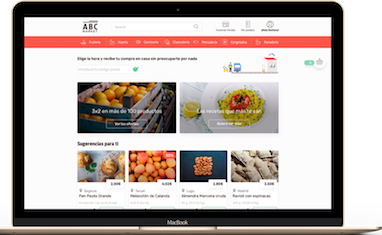
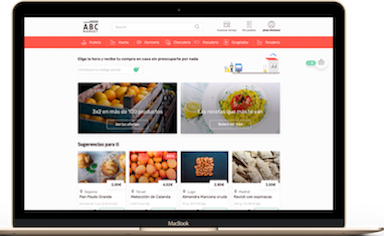
nuevos colores

diff --git a/index.html b/index.html
@@ -9,17 +9,15 @@
   <link rel="stylesheet" href="stylesheets/grid.min.css">
   <link rel="stylesheet" href="stylesheets/gutter.css">
   <link rel="stylesheet" href="stylesheets/styles.css">
-  <title>Portfolio de Soledad - UX/UI Design</title>
+  <title>soledadabad-UX/UI Designer</title>
 </head>
 
 
 <body>
   <header class="container-fluid">
+    <a href="index.html" class="logo"><img src="images/logo.png" alt="soledadabad" class="soledadabad"> </a>
     <div class="row justify-content-end">
       <ul class="menu">
-        <a href="#presentation">
-          <li>Bienvenida</li>
-        </a>
         <a href="#proyectos">
           <li>Proyectos</li>
         </a>
@@ -39,13 +37,8 @@
         <div class="col presentation">
           <h1>¡Hola!</h1>
           <h2>Mi nombre es Soledad Abad Lavín.</h2>
-          <h2>He cambiado la literatura por lo digital,</h2>
-          <h2>ahora soy:</h2>
+          <h2>He cambiado la literatura por lo digital, ahora soy:</h2>
           <h1>Diseñadora UX/UI y UX Writer</h1>
-          <a href="#proyectos" class="enlace-proyectos">
-            <p>Echa un vistazo a mis trabajos</p>
-            <img src="images/flecha-rosa1.svg" alt="baja">
-          </a>
         </div>
       </div>
     </div>
@@ -53,17 +46,18 @@
       <div class="container">
         <div class="row justify-content-between">
           <div class="col-lg-5">
-            <img src="images/proyector.png" alt="" class="proyector">
+            <img src="images/ticmorning.png" alt="" class="proyector">
           </div>
           <div class="col-lg-6 text">
             <h2>TicMorning</h2>
             <h3>Revolucionando los métodos de enseñanza tradicionales</h3>
             <p>El aula de Infantil es el espacio idóneo para acercarse a las nuevas tecnologías. Con este proyecto hemos trasladado la asamblea, es decir, su reunión matutina, del corcho a la pizarra digital. Nuevo contexto, mismo procedimiento. Mostrando las utilidades de los medios digitales.</p>
-            <a href="https://medium.com/@sole.irix/ticmorning-30a1c2bdcc3">
+            <a href="https://medium.com/@sole.irix/ticmorning-30a1c2bdcc3" target="_blank">
               <button>Leer más</button>
             </a>
           </div>
         </div>
+        <hr>
         <div class="row justify-content-between">
           <div class="col-lg-6 text">
             <h2>DocIn</h2>
@@ -71,16 +65,17 @@
             <p>Tras los últimos titulares publicados en torno a los riesgos de sufrir enfermedades mentales por parte de los
               doctorandos busqué facilitarles un modo de encontrar personas con investigaciones afines para establecer nuevos
               vínculos. Una aplicación en la que relacionarse, encontrar planes y apoyarse en el proceso de investigación.</p>
-            <a href="https://medium.com/@sole.irix/poner-en-contacto-a-doctorandos-18e4a76139fa" class="enlace-proyectos"><button>Leer
+            <a href="https://medium.com/@sole.irix/poner-en-contacto-a-doctorandos-18e4a76139fa" class="enlace-proyectos" target="_blank"><button>Leer
                 más sobre UX</button></a>
-            <a href="https://medium.com/@sole.irix/docin-c1eb8616f254" class="enlace-proyectos">
+            <a href="https://medium.com/@sole.irix/docin-c1eb8616f254" class="enlace-proyectos" target="_blank">
               <button>Leer más sobre UI</button>
             </a>
           </div>
           <div class="col-lg-5">
-            <img src="images/docin.png" alt="" class="docin">
+            <img src="images/doc-in.png" alt="" class="docin">
           </div>
         </div>
+        <hr>
         <div class="row justify-content-between">
           <div class="col-lg-5">
             <img src="images/abc.png" alt="" class="abc">
@@ -92,7 +87,7 @@
               los productos frescos. Los usuarios mantienen una actitud desconfiada sobre la calidad y el transporte de los
               mismos, por lo que, desde la nueva plataforma de venta de ABC Market proponemos mejorar la cantidad y la calidad
               de la información referente a los productos en venta, así como del transporte de la compra. </p>
-            <a href="https://medium.com/@sole.irix/proyecto-grupal-abc-company-912cc2bf0373"> <button>Leer más sobre UX</button> </a>
+            <a href="https://medium.com/@sole.irix/proyecto-grupal-abc-company-912cc2bf0373" target="_blank"> <button>Leer más sobre UX</button> </a>
             <a href="https://medium.com/@sole.irix/abc-company-5a7241eaeb62">
               <button>Leer más sobre UI</button>
             </a>
@@ -120,20 +115,18 @@
     <div class="container-fluid datos" id="datos">
       <div class="container">
         <div class="row justify-content-around">
-          <div class="col-lg-7">
-            <p>¿Tienes alguna duda? ¿Quieres que trabajemos en un proyecto en común? ¿Quieres hacerme alguna sugerencia? No dudes en escribirme ¡estaré encantada de leerte!</p>
-            <p>Puedes hacerlo a: sole.irix@gmail.com</p>
+          <div class="col-lg-12">
+            <p>¿Tienes alguna duda? ¿Quieres que trabajemos en un proyecto en común? ¿Quieres hacerme alguna sugerencia? No dudes en escribirme a sole.irix@gmail.com ¡estaré encantada de leerte!</p>
           </div>
-          <div class="col-lg-3">
-            <p>Sígueme en:</p>
-            <a href="https://twitter.com/sole_abad">
-              <img src="images/twitter.svg" alt="Twitter">
+          <div class="col-lg-12">
+            <a href="https://twitter.com/sole_abad" target="_blank">
+              <img src="images/twitter.svg" alt="Twitter" class="twitter">
             </a>
-            <a href="https://medium.com/@sole.irix">
-              <img src="images/medium.svg" alt="Medium">
+          <a href="https://medium.com/@sole.irix" target="_blank">
+              <img src="images/medium.svg" alt="Medium" class="medium">
             </a>
-            <a href="https://www.linkedin.com/in/soledadabadlavin/">
-              <img src="images/in.svg" alt="Linkedin">
+          <a href="https://www.linkedin.com/in/soledadabadlavin/" target="_blank">
+              <img src="images/in.svg" alt="Linkedin" class="linkedin">
             </a>
           </div>
         </div>

diff --git a/stylesheets/styles.css b/stylesheets/styles.css
@@ -2,25 +2,32 @@ body {
   margin: 0;
   font-family: 'Work Sans', sans-serif;
   color: #1A1919;
-  background-color: #FEFAFC;
+  background-color: #ffffff;
 }
 
-.container-fluid {
-  width: 100%
-}
 
 .container.proyectos {
-  width: 65vw;
+  width: 70vw;
+}
+
+.presentation {
+    background-image: url("../images/home.png"); 
+    height: 90vh;
+    min-height: 30em;
+    max-height: 90em;
+    padding-left: 56px;
 }
 
 header {
-  text-align: right;
   padding-top: 22px;
   padding-bottom: 22px;
-  background: #FEFAFC;
-  width: 100%;
+  background: #ffffff;
   position: fixed;
   z-index: 100;
+}
+
+.soledadabad {
+  float: left;
 }
 
 ul {
@@ -32,6 +39,7 @@ ul {
   margin-right: 34px;
   list-style-type: none;
   font-size: 18px;
+  text-align: right;
 }
 
 li:hover {
@@ -40,15 +48,10 @@ li:hover {
 
 .menu a {
   font-size: 18px;
-  color: #F23B90;
+  color: #BE0D0D;
   text-decoration: none;
 }
 
-
-.presentation {
-  text-align: center;
-  height: 100vh;
-}
 
 h1 {
   font-size: 48px;
@@ -70,35 +73,17 @@ a:hover {
   text-decoration: none;
 }
 
-.enlace-proyectos p {
-  margin-top: 96px; 
-  margin-bottom: 33px;
-  text-decoration: none;
-  color: #1A1919;
-}
 
-.enlace-proyectos:hover p{
-  color: #F23B90;
-}
-
-.enlace-proyectos img {
-  margin-bottom: 112px;
-}
 
 .proyectos {
-  padding-top: 112px;
-  padding-bottom: 112px;
-  background-color: #FDA8D0;
+  background-color: #BF4141;
+  color: #ffffff;
 }
 
 h3 {
   font-size: 24px;
-  margin-top: 36px;
 }
 
-.row.justify-content-between+.row.justify-content-between {
-  margin-top: 208px;
-}
 
 .col-lg-6 {
   padding-top: 16px;
@@ -109,16 +94,22 @@ h3 {
   margin-bottom: 32px;
 }
 
-.proyector, .abc{
+.proyector, .abc, .docin{
   margin-top: 40px;
 }
 
+.justify-content-between{
+  padding-top: 56px; 
+}
+
+
 button {
   font-size: 18px;
-  border: 2px solid #1A1919;
+  border: 2px solid #ffffff;
   border-radius: 4px;
-  background-color: #FDA8D0;
-  margin: 16px 32px 16px 0;  
+  background-color: #BF4141;
+  margin: 16px 32px 16px 0; 
+  color: #ffffff; 
 }
 
 button:hover {
@@ -131,8 +122,8 @@ button:active {
 
 
 .contacto {
-  padding-top: 160px;
-  padding-bottom: 160px;
+  padding-bottom: 56px;
+  padding-top: 16px;
 }
 
 .proyectos .col-lg-7 {
@@ -140,7 +131,8 @@ button:active {
 }
 
 .container-fluid.datos {
-  background-color: #FDA8D0;
+  background-color: #BF4141;
+  color: #ffffff;
 }
 
 .datos {
@@ -163,7 +155,12 @@ button:active {
 
 
 .copy {
-  color: #FEFAFC;
+  color: #ffffff;
   text-align: center;
   margin-top: 44px;
+}
+
+.twitter, .medium, .linkedin {
+  width: 40px;
+  padding: 8px;
 }
